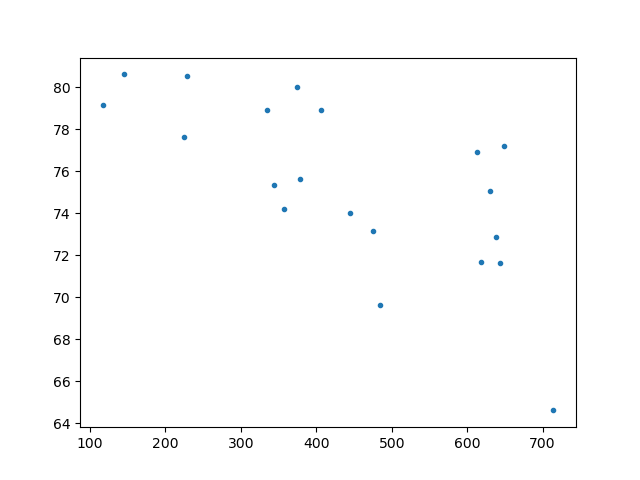
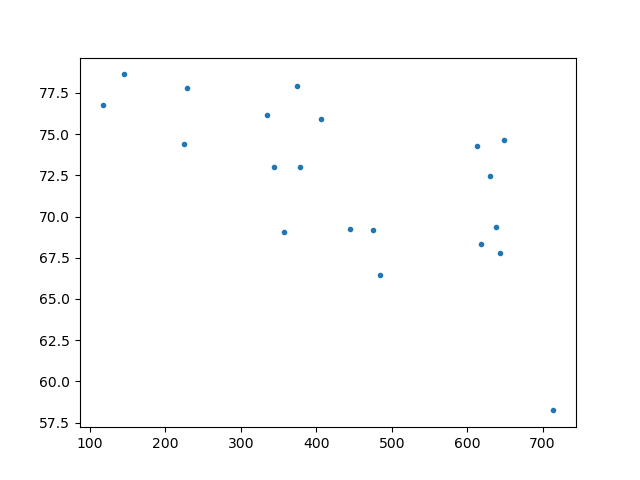
cifar100 ds

diff --git a/figures/cont.py b/figures/cont.py
@@ -16,21 +16,17 @@ import numpy as np
 
 
 ds='c10'
-class_dict=f'dataset_splits' \
-           f'dataset_split_info_model_MLP_n_cli_20_ds_split_dirichlet_ds_alpha_0.25_align_ae_waf_1_delta_None_init_type_kaiming_normal_same_init_True_le_1_s_False.pkl'
-
+class_dict=f'dataset_splits/dataset_split_info_model_Conv4_n_cli_20_ds_split_dirichlet_ds_alpha_0.25_align_ae_waf_1_delta_None_init_type_kaiming_normal_same_init_True_le_5_s_False.pkl'
 
 classes = pickle.load( open( class_dict, "rb" ) )
 
-
-results=f'client_results/' \
-        f'client_results_ds_Fashion_MNIST_model_MLP_n_cli_20_ds_split_dirichlet_ds_alpha_0.25_align_ae_waf_1_delta_None_init_type_kaiming_normal_same_init_True_le_1_s_False_rand_top_True.csv'
+results=f'client_results/client_results_ds_CIFAR10_model_Conv4_n_cli_20_ds_split_dirichlet_ds_alpha_0.25_align_ae_waf_1_delta_None_init_type_kaiming_normal_same_init_True_le_5_s_False_rand_top_True.csv'
 
 
 df=pd.read_csv(results)
 
 
-df=df[(df['iter_list']>100)&(df['iter_list']<150) ]
+df=df[(df['iter_list']>150)&(df['iter_list']<200) ]
 df=df.groupby(['client_list'])['test_accuracy_list'].mean()#.agg({'test_accuracy_list':['mean','std']})
 print(df.head(12))
 
@@ -74,9 +70,8 @@ for peer in classes.items():
     #print(vals)
     vals=pad_or_truncate(vals,10)
 
+    #uniformity_ls.append(sum(class_ls.values())*np.std(vals))
     uniformity_ls.append(np.std(vals))
-    #print(f'{total_num}, { (1-(np.linalg.norm(freqs)*math.sqrt(label_len)-1)/(math.sqrt(label_len)-1))},'
-    #      f' { total_num*(1-(np.linalg.norm(freqs)*math.sqrt(label_len)-1)/(math.sqrt(label_len)-1))}')
 
 print(uniformity_ls)
 #sys.exit()
@@ -85,6 +80,9 @@ print(uniformity_ls)
 print(df)
 print(df.values)
 
+print(np.mean(df.values))
+print(np.std(df.values))
+
 plt.clf()
 plt.plot(uniformity_ls, df.values, '.')
-plt.savefig('b.png')
+plt.savefig('a2.png')

diff --git a/datasets/cifar100.py b/datasets/cifar100.py
@@ -42,14 +42,16 @@ def get_datasets(args):
 
         train_loaders = []
         if args.dataset_split=="disjoint_classes":
-            assert num_clients in [2, 5]
+            assert num_clients in [2, 5,3]
 
             if num_clients == 2:
                 labels_iter = [[i for i in range(50)],[i for i in range(50,100)]]
             elif num_clients == 5:
                 labels_iter = [[i for i in range(20)], [i for i in range(20,40)],
                                [i for i in range(40,60)], [i for i in range(60,80)], [i for i in range(80,100)]]
-
+            elif num_clients==3:
+                labels_iter = [[i for i in range(33)], [i for i in range(33, 66)],
+                               [i for i in range(66, 100)], ]
 
             print(f'label groupings: {labels_iter}')
 
@@ -86,7 +88,7 @@ def get_datasets(args):
                     train_loaders.append(train_loader)
                 if num_clients == 2:
                     assert (set(index_groupings[0]).isdisjoint(index_groupings[1]))
-                else:
+                elif num_clients==5:
                     # random assertions
                     assert (set(index_groupings[0]).isdisjoint(index_groupings[1]))
                     assert (set(index_groupings[0]).isdisjoint(index_groupings[2]))
